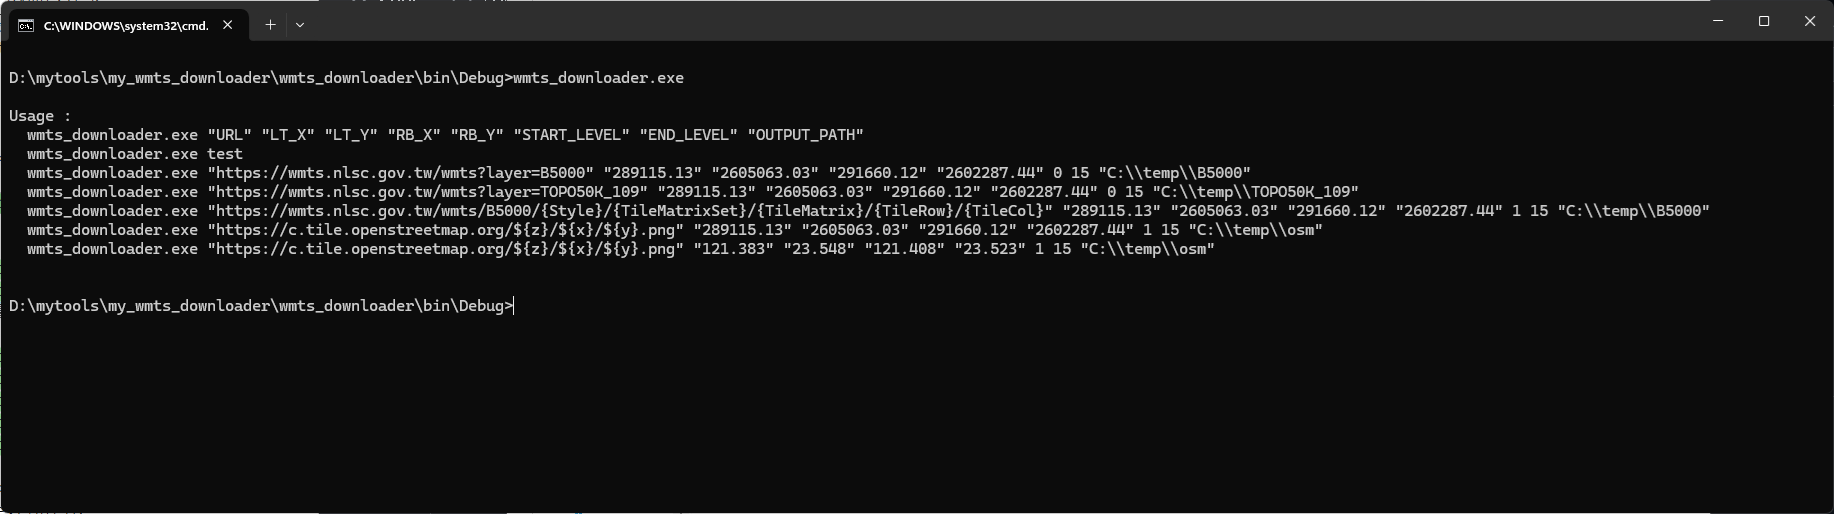
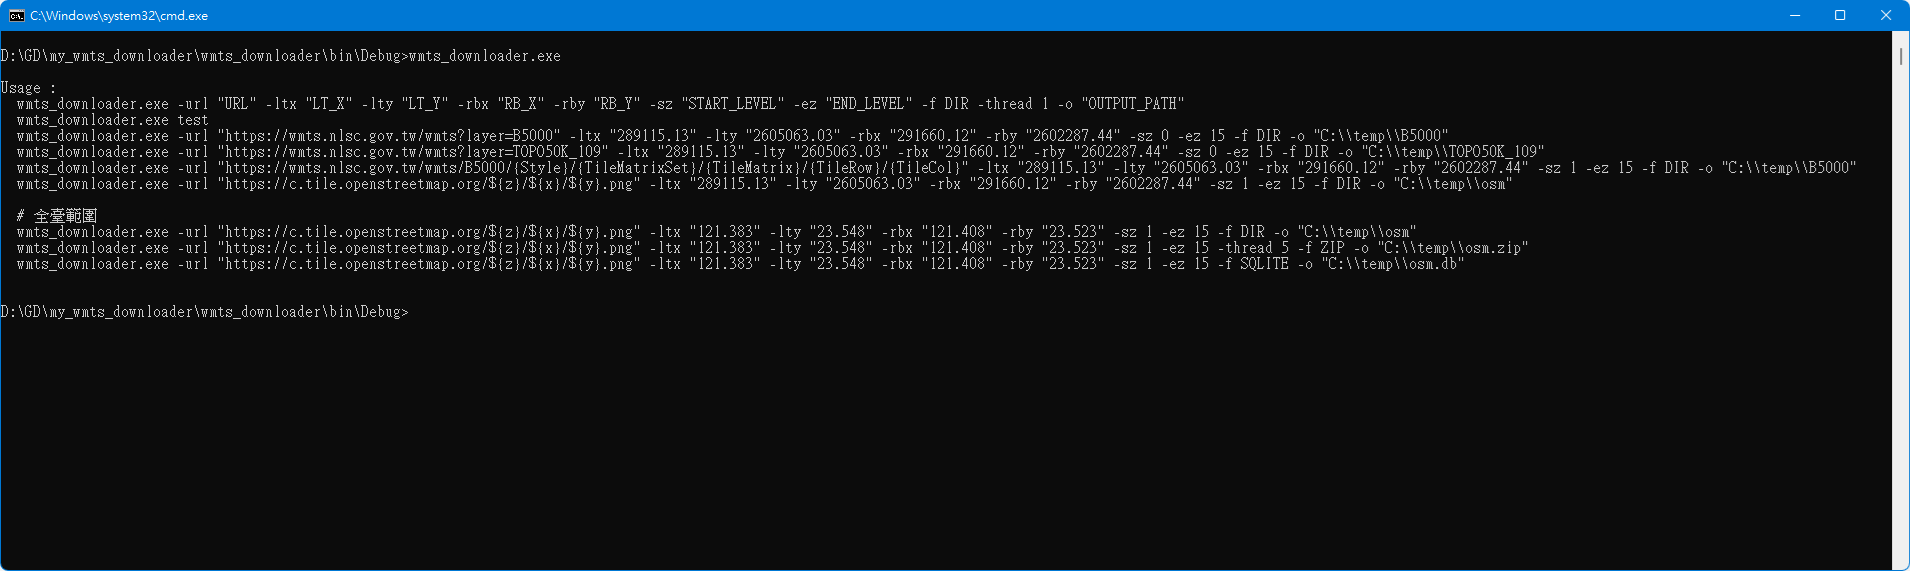
更新 screenshot

diff --git a/README.md b/README.md
@@ -143,10 +143,6 @@ wmts_downloader.exe
   馬祖、連江
   wmts_downloader.exe -url "https://c.tile.openstreetmap.org/${z}/${x}/${y}.png" -ltx "119.87" -lty "26.133" -rbx "120.049" -rby "26.291" -sz 0 -ez 15 -f ZIP -thread 5 -o "C:\\temp\\osm.zip"  
 
-<h2>設定檔參數：</h2>
-wmts_to_jpg.exe.config
-
-    
 <h2>縮圖參考：</h2>
   <center>
     <img src="screenshot/01.png">
